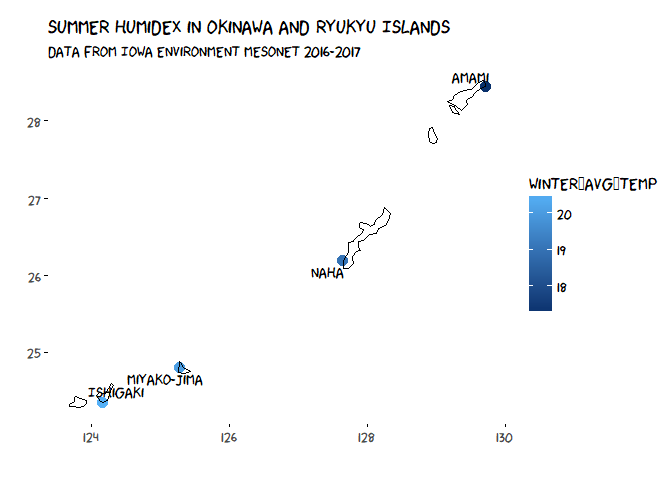
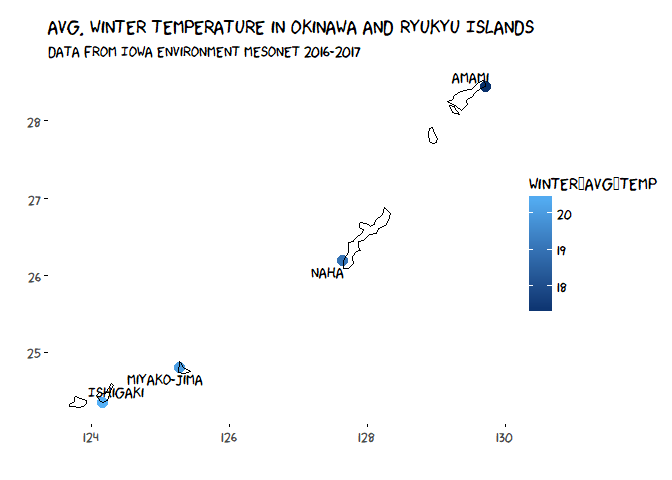
- added correct img files for xkcd okinawa

Changed region(s): [[0.0625, 0.0312, 0.8125, 0.0938]]

diff --git a/_posts/2017-11-22-japan-xkcd-weather-index.md b/_posts/2017-11-22-japan-xkcd-weather-index.md
@@ -126,17 +126,17 @@ Now to grab the weather data from the weather stations using the `riem` package,
 library(purrr)
 library(riem)
 
-#summer_weather <- map_df(jp_airport_codes$ICAO, riem_measures,
-#                                date_start = "2017-06-01",
-#                                date_end = "2017-08-31")
+summer_weather <- map_df(jp_airport_codes$ICAO, riem_measures,
+                                date_start = "2017-06-01",
+                                date_end = "2017-08-31")
 
-#winter_weather <- map_df(jp_airport_codes$ICAO, riem_measures,
-#                                date_start = "2016-12-01",
-#                                date_end = "2017-02-28")
+winter_weather <- map_df(jp_airport_codes$ICAO, riem_measures,
+                                date_start = "2016-12-01",
+                                date_end = "2017-02-28")
 
 # As before we save these as .csv files:
-#write.csv(summer_weather, "~/R_materials/japan_weather_xkcd/summer_weather.csv")
-#write.csv(winter_weather, "~/R_materials/japan_weather_xkcd/winter_weather.csv")
+write.csv(summer_weather, "~/R_materials/japan_weather_xkcd/summer_weather.csv")
+write.csv(winter_weather, "~/R_materials/japan_weather_xkcd/winter_weather.csv")
 
 # Load them back in after opening a new session instead of waiting to download from RIEM package again:
 summer_weather <- read.csv("summer_weather.csv", stringsAsFactors = FALSE)
